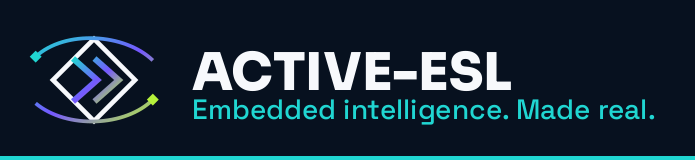
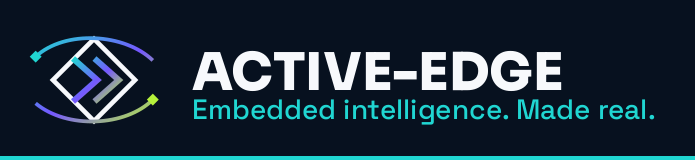
Refresh email signature review for Active-Edge final pass.
Updates the strip wordmark to ACTIVE-EDGE, records Michael's A/C feedback, and adds Thunderbird plus Outlook install steps ahead of cutting client packs.

Changed region(s): [[0.6345, 0.3125, 0.8158, 0.5938]]

diff --git a/brand/email-signature-review.html b/brand/email-signature-review.html
@@ -2,17 +2,15 @@
 <html lang="en-GB">
 <head>
   <meta charset="utf-8">
-  <meta name="robots" content="noindex, nofollow">
   <meta name="viewport" content="width=device-width, initial-scale=1">
+  <meta name="robots" content="noindex, nofollow">
   <title>Email signature — Active-Edge brand review</title>
-  <meta name="description" content="Three background treatments for the Active-Edge email signature strip, for review by Michael and Gary. Includes Thunderbird install steps.">
+  <meta name="description" content="Final review of the Active-Edge email signature strip for Michael and Gary, with Thunderbird and Outlook install steps.">
   <link rel="preconnect" href="https://fonts.googleapis.com">
   <link rel="preconnect" href="https://fonts.gstatic.com" crossorigin>
   <link href="https://fonts.googleapis.com/css2?family=IBM+Plex+Sans:wght@400;600&family=Sora:wght@800&family=Space+Grotesk:wght@500&display=swap" rel="stylesheet">
-  <link rel="stylesheet" href="../assets/css/brand.css?v=20260729d">
+  <link rel="stylesheet" href="../assets/css/brand.css?v=20260805a">
   <link rel="icon" href="../assets/svg/active-esl-edge-favicon.svg" type="image/svg+xml">
-  <link rel="icon" href="../assets/images/favicon-32.png" sizes="32x32" type="image/png">
-  <link rel="apple-touch-icon" href="../assets/images/apple-touch-icon.png">
   <style>
     .variant-list { display: grid; gap: 18px; margin-top: 18px; }
     .variant-card { border: 1px solid rgba(32, 214, 210, .28); border-radius: 12px; padding: 18px; }
@@ -52,10 +50,10 @@
   <a class="skip-link" href="#main">Skip to content</a>
   <header class="site-header">
     <a class="brand-lockup" href="index.html">
-      <img src="../assets/svg/active-esl-edge-symbol.svg" width="48" height="38" alt="">
+      <img src="assets/svg/active-esl-edge-symbol.svg" width="48" height="38" alt="">
       <div>
         <strong>ACTIVE-EDGE</strong>
-        <span>Brand · AESL</span>
+        <span>Internal review</span>
       </div>
     </a>
     <nav class="nav" aria-label="Primary">
@@ -74,16 +72,16 @@
 
   <main id="main">
     <p class="kicker">Michael + Gary / final review</p>
-    <h1>Email signature — Active-Edge</h1>
+    <h1>Active-Edge email signature</h1>
     <p class="lede">
-      Brand name is <b>Active-Edge</b> (hyphen mandatory — distinguishes us from
-      another “Active Edge”). Acronym <b>AESL</b>. One shared brand strip sits under
-      everyone’s signature. Name, role, email and phone stay as plain text so they
-      remain readable, searchable and copyable — even when a recipient blocks remote
-      images. Please confirm <b>one background</b>, then we cut a pack for your mail clients.
+      Full brand name is <b>Active-Edge</b> (hyphen mandatory). Acronym <b>AESL</b>.
+      One shared brand strip sits under everyone’s signature; name, role, email and
+      phone stay as plain text. Please confirm the background and the install steps
+      for your mail client, then we will cut a pack for Thunderbird (Alex / Michael)
+      and Outlook (Gary).
     </p>
     <p class="meta">
-      <span><b>Client</b> Thunderbird (Alex, Michael) · Gary TBD</span>
+      <span><b>Client</b> Thunderbird (Alex, Michael, Gary)</span>
       <span><b>Strip</b> 347 × 80 shown, 2× for sharp screens</span>
       <span><b>Weight</b> 15–39 KB</span>
     </p>
@@ -98,8 +96,8 @@
 
       <div class="variant-list">
         <article class="variant-card">
-          <h3>A · Signal Cyan tint <span class="kicker">Michael's preference</span></h3>
-          <p>Light and calm. Stays quiet when a thread is replied to ten times, and prints cheaply.</p>
+          <h3>A · Signal Cyan tint <span class="kicker">Michael liked this</span></h3>
+          <p>Light and calm. Stays quiet when a thread is replied to ten times, and prints cheaply. Michael: easier on the eye.</p>
           <span class="strip-frame">
             <img src="../assets/images/email/aesl-email-signature-strip-cyan-tint.png" width="347" height="80" alt="Active-Edge strip on a light cyan tint">
           </span>
@@ -114,8 +112,8 @@
         </article>
 
         <article class="variant-card">
-          <h3>C · Carbon with cyan/violet glow</h3>
-          <p>Same dark bar with the website’s hero wash and a gradient rule. Richest, and the largest file.</p>
+          <h3>C · Carbon with cyan/violet glow <span class="kicker">Michael also liked</span></h3>
+          <p>Same dark bar with the website’s hero wash and a gradient rule. Michael: “really very nice”. Richest file (~39&nbsp;KB).</p>
           <span class="strip-frame">
             <img src="../assets/images/email/aesl-email-signature-strip-carbon-glow.png" width="347" height="80" alt="Active-Edge strip on Carbon with a cyan and violet glow">
           </span>
@@ -240,32 +238,31 @@
       </div>
     </section>
 
+
     <section class="section">
-      <h2>Install in Thunderbird (Alex + Michael)</h2>
-      <p>
-        After you confirm the background, we will give each person a short HTML
-        file (or this page’s signature block) to paste. Until then, use these steps
-        with the preview below once the pack is cut.
-      </p>
-      <ol class="clean" style="padding-left:1.2em;line-height:1.55;">
-        <li>Open <b>Thunderbird</b> → <b>Settings</b> (gear) → <b>Account Settings</b>.</li>
-        <li>Select your <code>@active-esl.com</code> account in the left list.</li>
-        <li>Under <b>Composition &amp; Addressing</b>, tick
-          <b>Use an HTML signature</b> (wording may vary slightly by Thunderbird version).</li>
-        <li>Open the HTML signature file we supply (or copy the signature table from
-          this review page for your name).</li>
-        <li>Paste into the signature box. Keep it as HTML — do not paste into a
-          plain-text-only field.</li>
-        <li>Send yourself a test message and confirm the strip image loads (and that
-          name / email / phone remain selectable text).</li>
-        <li>If the strip is missing for recipients: the image URL must stay on
-          <code>https://active-esl.com/…</code> (hosted once). Local <code>file://</code>
-          paths will not work for others.</li>
-      </ol>
-      <p class="image-note">
-        <b>Gary:</b> tell us which client you use (Outlook, Apple Mail, Gmail,
-        Thunderbird, …) and we will add matching install notes to the pack.
-      </p>
+      <h2>How to install</h2>
+      <div class="grid-2">
+        <article class="panel cyan">
+          <h3>Thunderbird — Alex &amp; Michael</h3>
+          <ol>
+            <li>Open <b>Edit → Account Settings → [your account] → Composition &amp; Addressing</b>.</li>
+            <li>Enable <b>Use HTML</b>.</li>
+            <li>Either paste the signature HTML we will send you into the signature box, <b>or</b> tick <b>Attach the signature from a file instead</b> and point at the HTML file.</li>
+            <li>Compose a test mail to yourself. Allow remote content once so the brand strip loads from <code>active-esl.com</code>.</li>
+            <li>Check name, title, phone and WhatsApp look right before sending to customers.</li>
+          </ol>
+        </article>
+        <article class="panel">
+          <h3>Outlook — Gary</h3>
+          <ol>
+            <li><b>Outlook on the web / Microsoft 365:</b> Settings → Mail → Compose and reply → Email signature. Create a new signature, switch to the HTML / Code view if available, paste the HTML, save, and set it as default for new messages (and replies if you want).</li>
+            <li><b>Outlook desktop (Windows):</b> File → Options → Mail → Signatures. New → paste from the HTML file (prefer Paste Special → HTML if plain paste strips formatting). Assign to the Active-Edge account.</li>
+            <li>Send a test mail to yourself. If the strip is blank, allow download of external images for that message (Outlook often blocks them until trusted).</li>
+            <li>We can also supply a Word/RTF fallback if HTML paste misbehaves on your build — say if you need that.</li>
+          </ol>
+        </article>
+      </div>
+      <p class="image-note">Until you say “go”, keep this as review only — do not paste into production mail yet.</p>
     </section>
 
     <section class="section">
@@ -273,7 +270,7 @@
       <div class="grid-2">
         <article class="panel cyan">
           <h3>1</h3>
-          <p>Background: <b>A</b> cyan tint, <b>B</b> Carbon, or <b>C</b> Carbon glow?</p>
+          <p>Background: Michael liked <b>A</b> and <b>C</b>. Final pick for the shared strip — <b>A</b>, <b>B</b>, or <b>C</b>?</p>
         </article>
         <article class="panel">
           <h3>2</h3>
@@ -297,7 +294,7 @@
           <h3>Then</h3>
           <ul class="clean">
             <li>Chosen strip is published once at <code>active-esl.com</code></li>
-            <li>Each person pastes their own HTML into Thunderbird</li>
+            <li>Thunderbird pack for Alex &amp; Michael; Outlook pack for Gary</li>
             <li>Future brand tweaks update one image, not three signatures</li>
           </ul>
         </article>
@@ -306,8 +303,8 @@
   </main>
 
   <footer class="site-footer">
-    <p>Active-Edge (AESL) email signature concept for internal review.</p>
-    <p><a href="review.html">Back to review</a></p>
+    <p>Active-Edge (AESL) email signature — internal final review.</p>
+    <p><a href="review.html">Back to brand review</a></p>
   </footer>
 
   <script>
